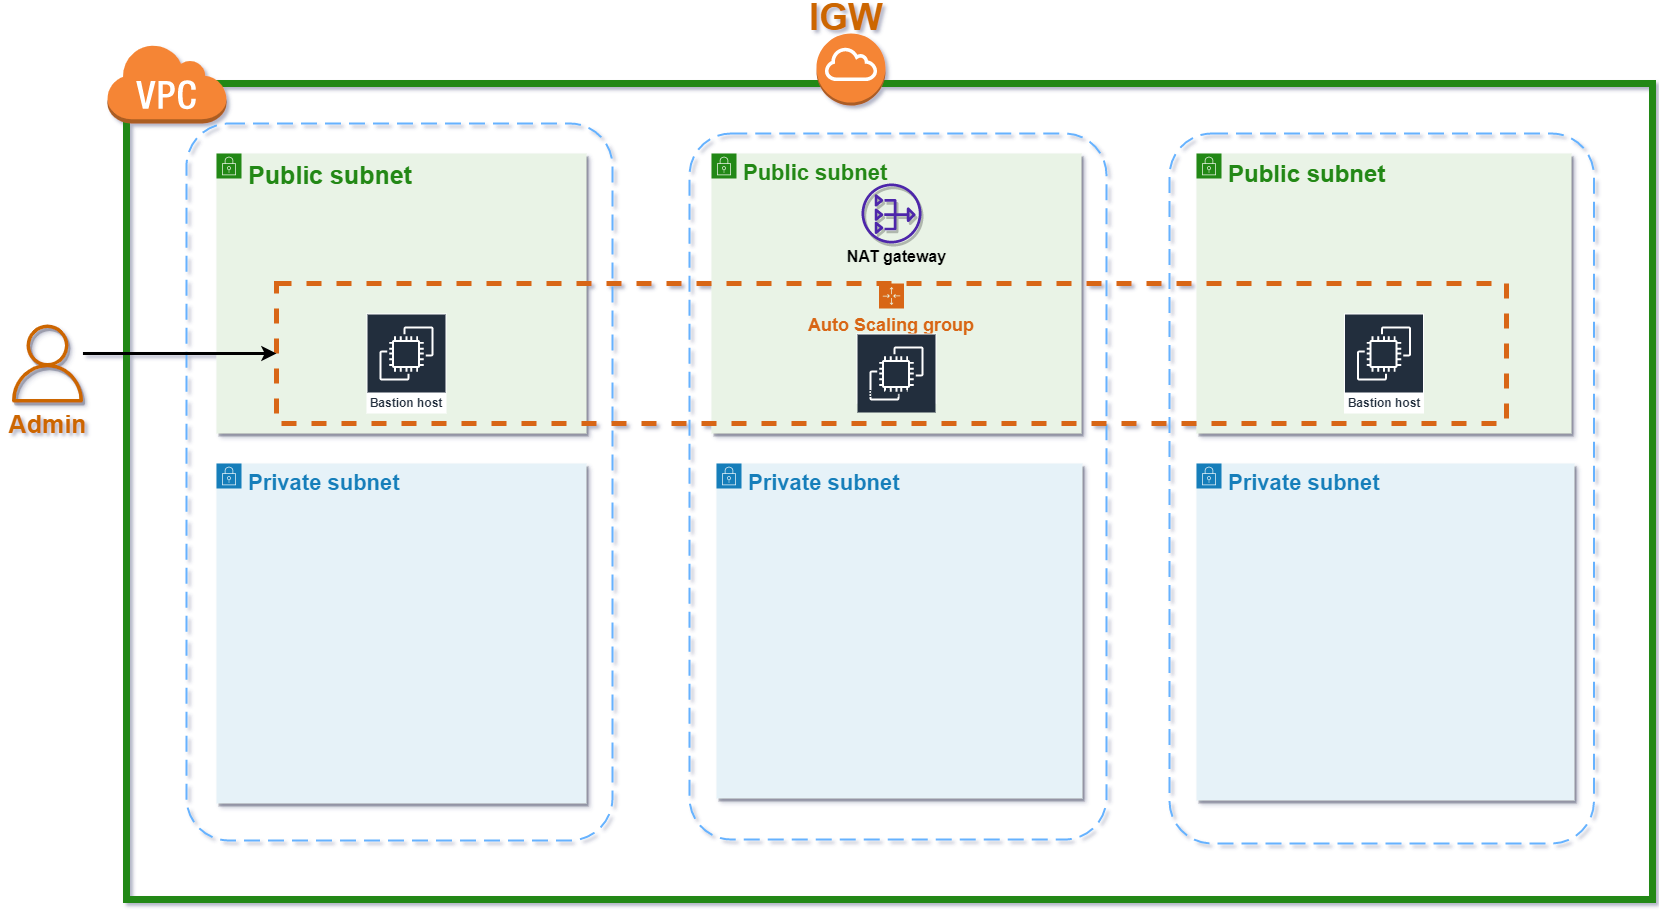
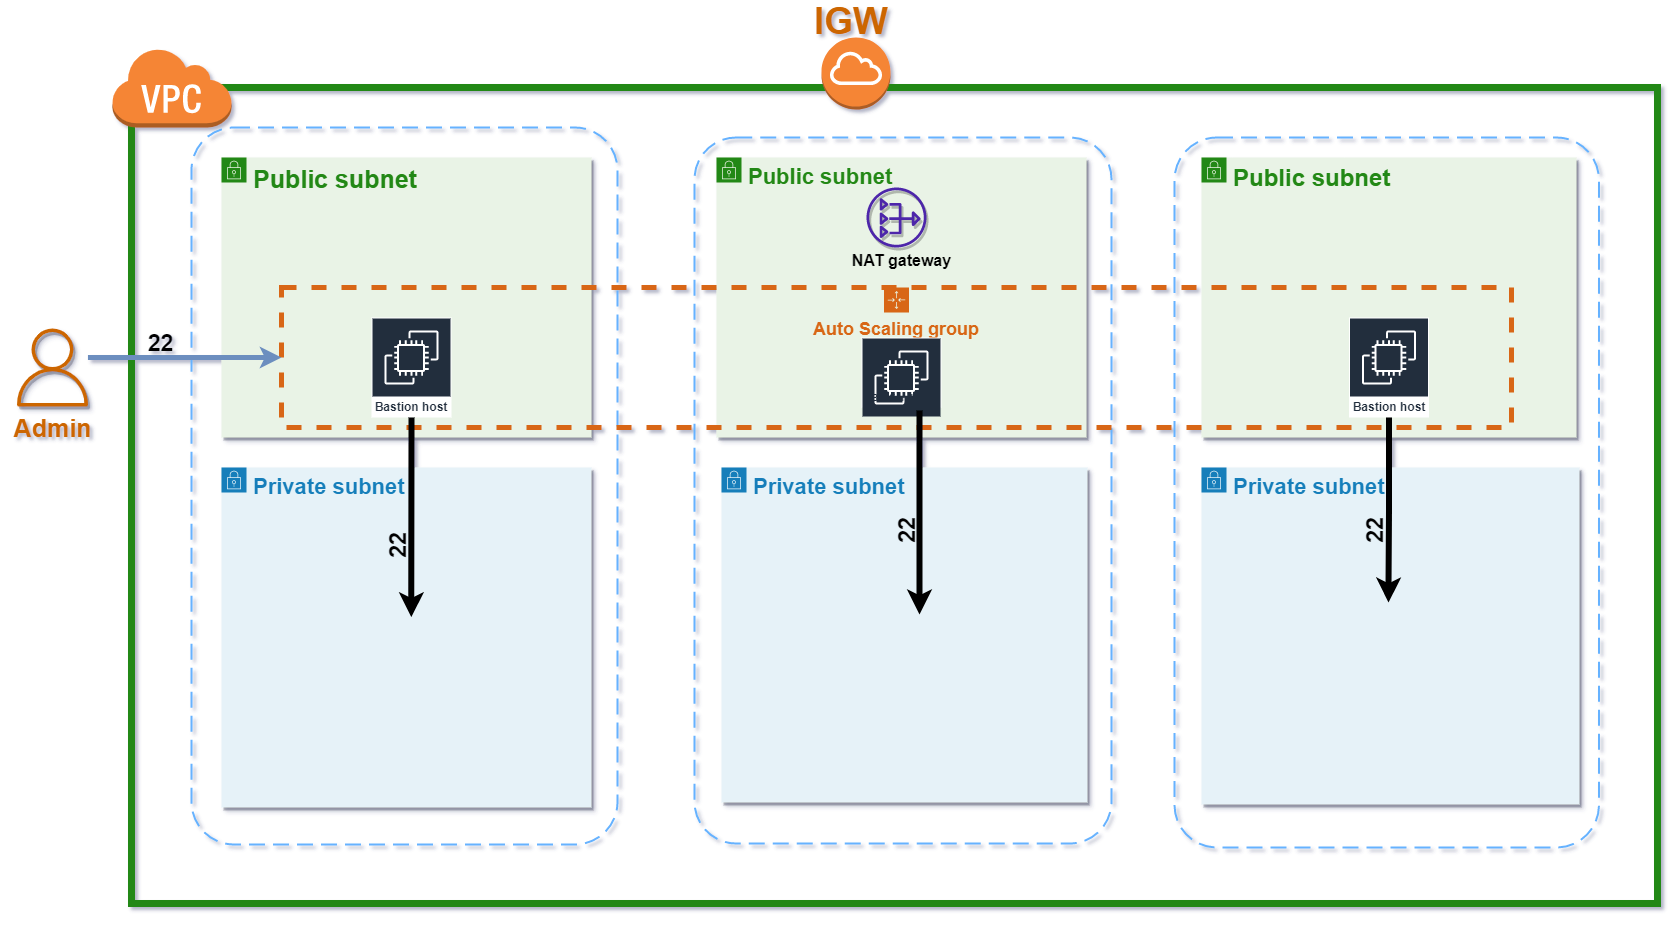
edit bastion readme

diff --git a/bastion/README.md b/bastion/README.md
@@ -7,14 +7,16 @@
 This module will create an SSH Bastion to securly connect in SSH to your private instances.
 ![](diagram/bastion.png)
 
-All SSH commands are logged on an S3 Bucket for security compliance, in the /logs/ path.
+All SSH commands are logged on an S3 Bucket for security compliance, in the `logs/` path.
 
-SSH users are managed by their public key, simply drop the SSH key of the user in the /public-keys path of the bucket. Keys should be named like `username.pub`, this will create the user `username` on the bastion server. Username must contain alphanumeric characters only.
+SSH users are managed by their public key, simply drop the SSH key of the user in the /public-keys path of the bucket. Keys should be named like `username.pub`, this will create the user username on the bastion server. Username must contain alphanumeric characters only.
 
 Then after you'll be able to connect to the server with:
 ```bash
 ssh -i [path_to_the_private_key] username@bastion-dns-name[or PUBLIC_IP]
 ```
+From this bastion server, you will be able to connect to all instances on the private subnet.
+
 
 ## **Usage**
 ```terraform
